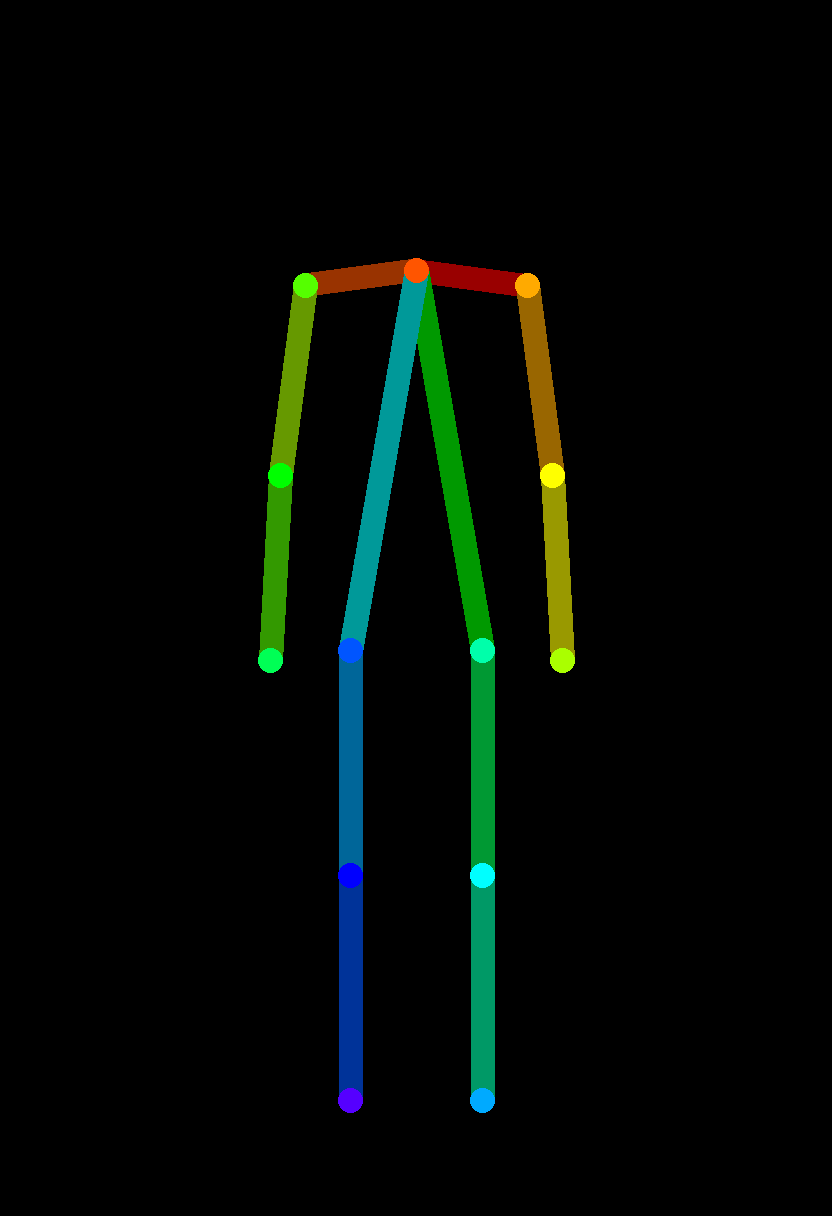
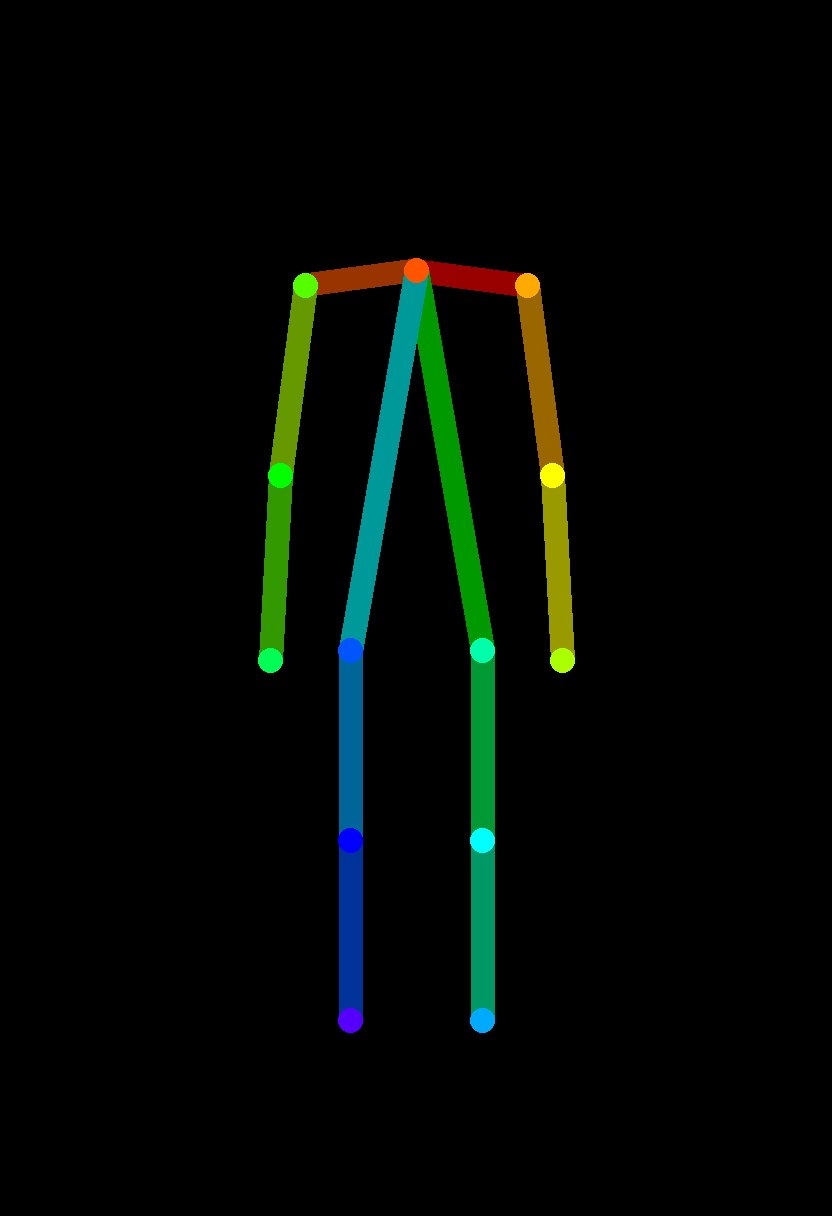
模型加速

diff --git a/dsh-elysium-tools/README.md b/dsh-elysium-tools/README.md
@@ -6,6 +6,8 @@ Harness 图片与视频生成插件，自带任务卡和“极乐世界”预设
 
 ## 1. 安装插件
 
+当前 SDXL 三视图分支仍会出现服装和姿态偏差，必须逐图确认；不适合无人验收的标准三视图生产。
+
 需要 Harness、Node.js 20.16+、Python 3、FFmpeg、FFprobe，以及具备所需模型和节点的 ComfyUI。在本插件目录执行：
 
 ```sh
